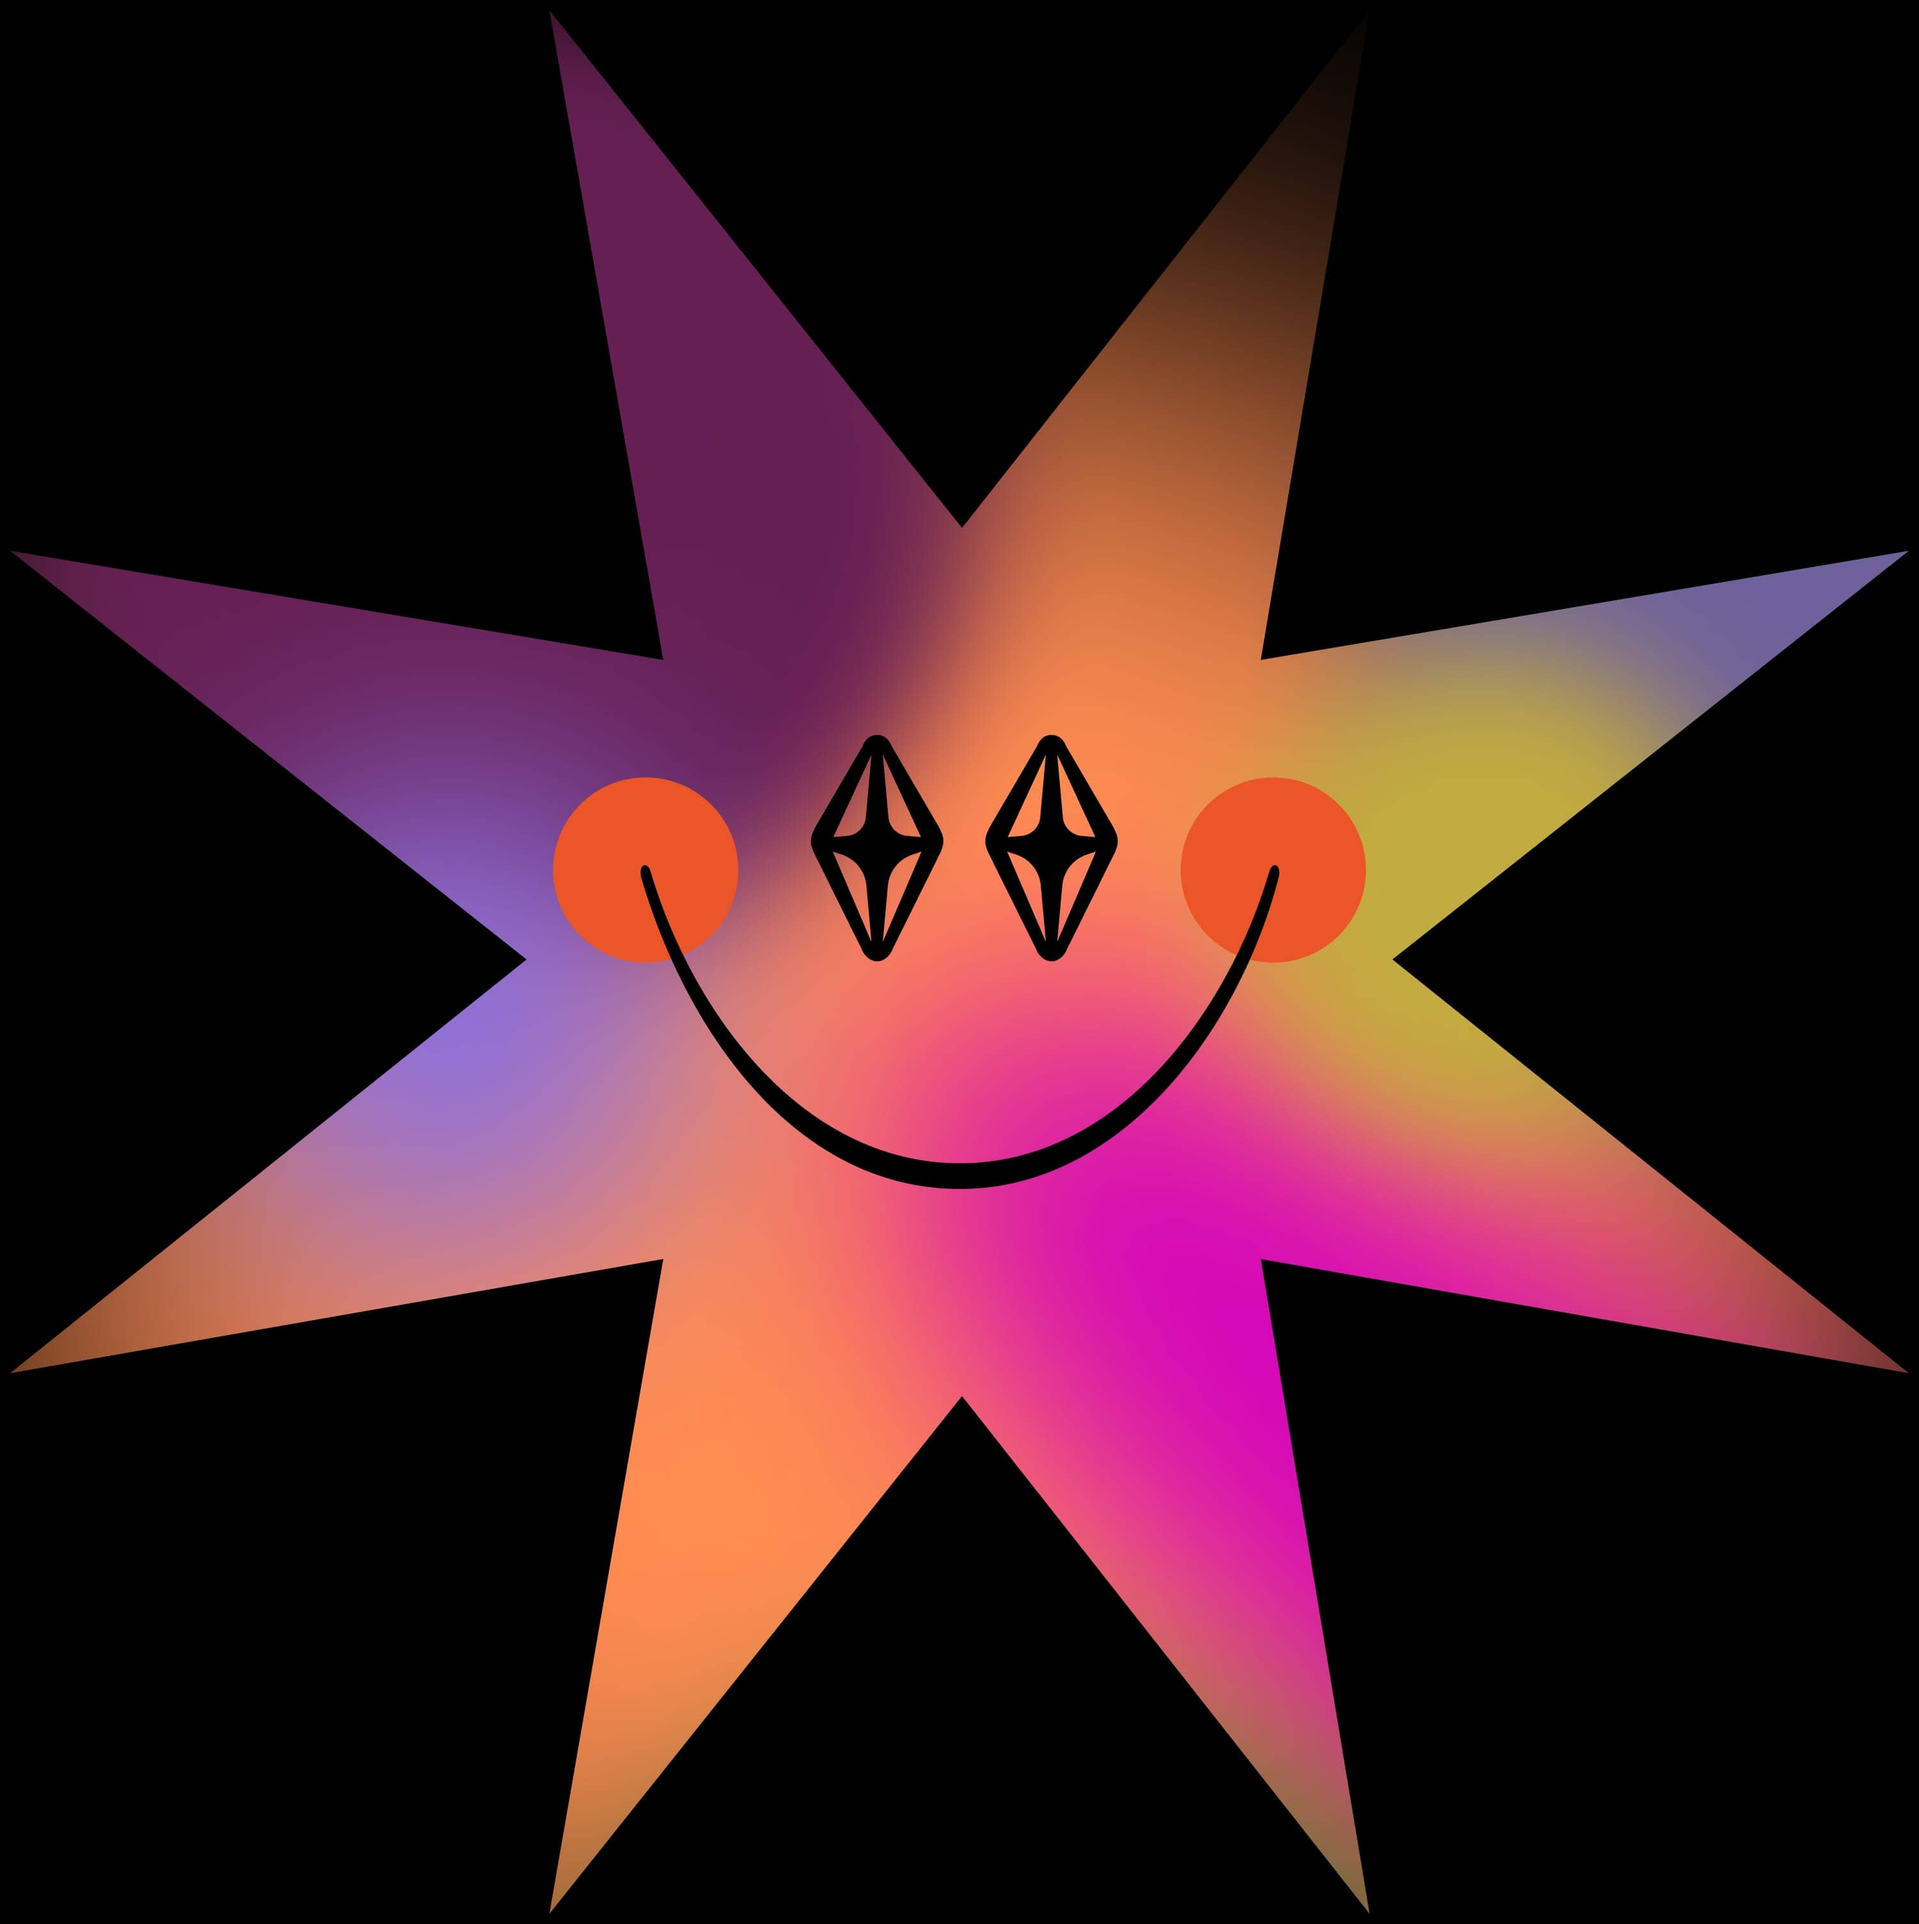
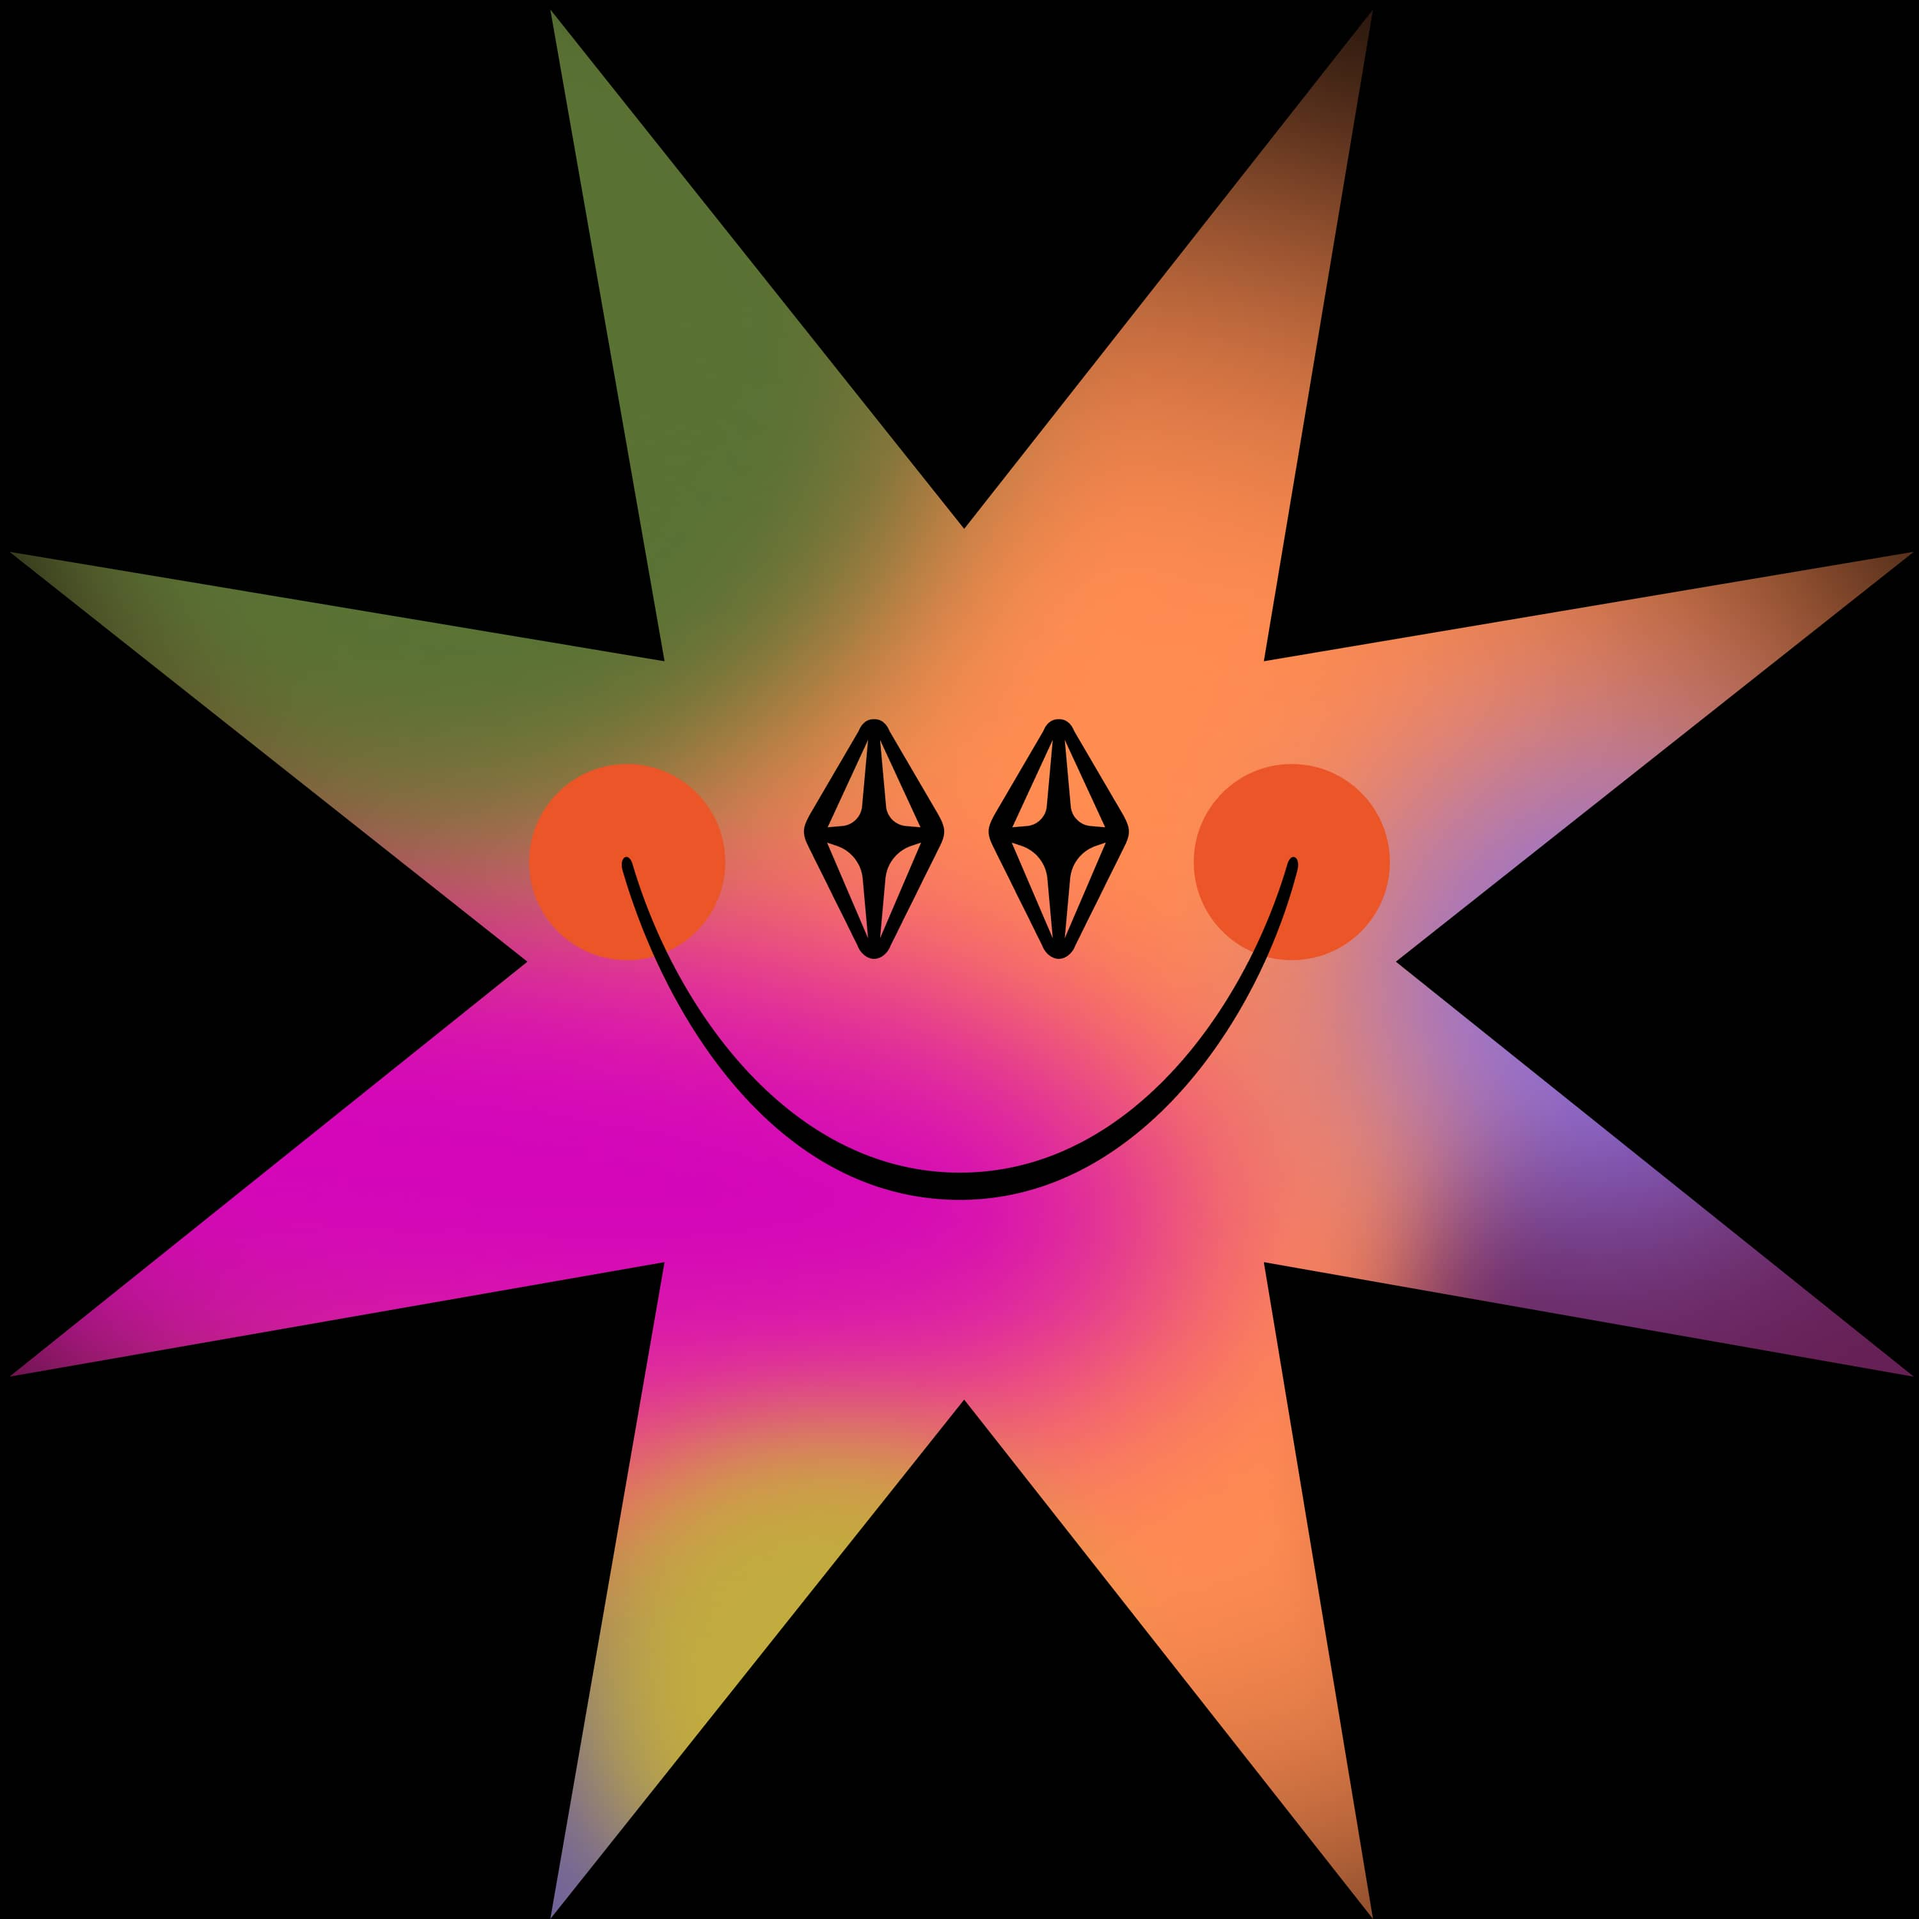
change GET PAID to COMING SOON, update star colors

diff --git a/styles.css b/styles.css
@@ -119,8 +119,9 @@ a.button {
 #circle {
   width: var(--column);
   height: var(--column);
-  font-size: 5rem;
-  line-height: 5rem;
+  font-size: 4rem;
+  line-height: 4rem;
+  letter-spacing: -0.4rem;
   font-weight: 250;
   display: flex;
   justify-content: center;
@@ -175,16 +176,16 @@ a.button {
       url("assets/color3.jpg"), url("assets/color4.jpg");
   }
   25% {
-    background-image: url("assets/color2.jpg"), url("assets/color1.jpg"),
-      url("assets/color3.jpg"), url("assets/color4.jpg");
+    background-image: url("assets/color2.jpg"), url("assets/color3.jpg"),
+      url("assets/color4.jpg"), url("assets/color1.jpg");
   }
   50% {
-    background-image: url("assets/color3.jpg"), url("assets/color2.jpg"),
-      url("assets/color1.jpg"), url("assets/color4.jpg");
+    background-image: url("assets/color3.jpg"), url("assets/color4.jpg"),
+      url("assets/color1.jpg"), url("assets/color2.jpg");
   }
   75% {
-    background-image: url("assets/color4.jpg"), url("assets/color2.jpg"),
-      url("assets/color1.jpg"), url("assets/color3.jpg");
+    background-image: url("assets/color4.jpg"), url("assets/color1.jpg"),
+      url("assets/color2.jpg"), url("assets/color3.jpg");
   }
   100% {
     background-image: url("assets/color1.jpg"), url("assets/color2.jpg"),

diff --git a/index.html b/index.html
@@ -45,7 +45,7 @@
         </span>
       </a>
       <div id="circle">
-        <span>GET<br>✷<br>PAID</span>
+        <span>COMING<br>✷<br>SOON</span>
       </div>
     </aside>
     <div id="character" />
